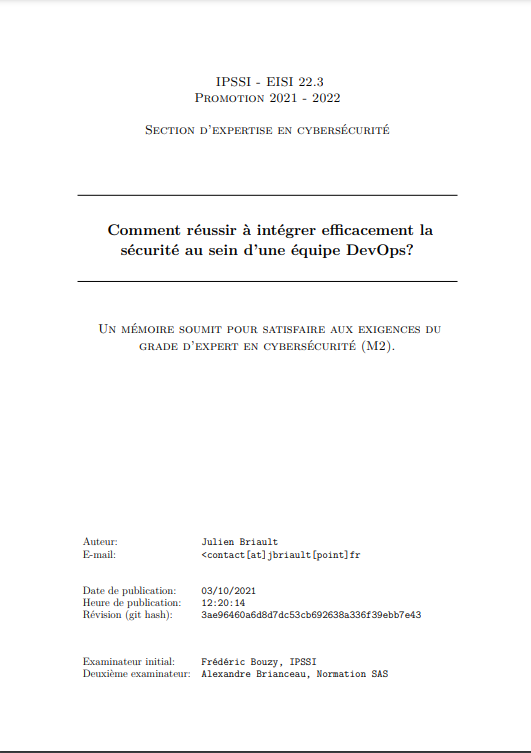
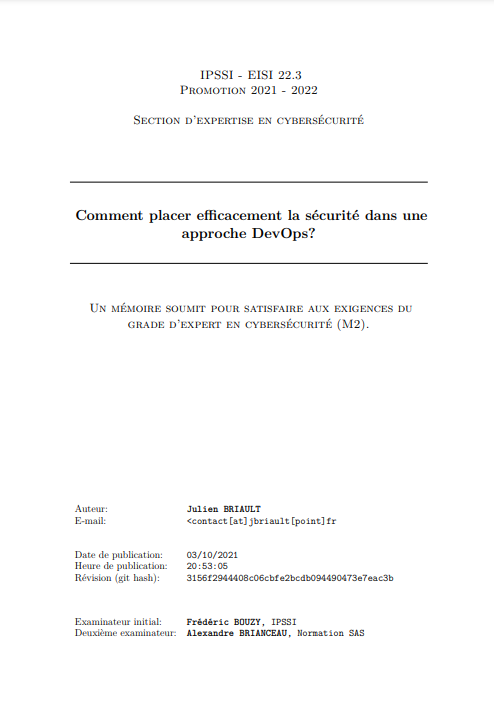
update mémoire

diff --git a/md/introduction.md b/md/introduction.md
@@ -1,4 +1,5 @@
 # Introduction
+
 Lorsque **Patrick Debois**[^1] créé le terme DevOps en 2009, 
 il est très certainement loin de se douter qu'il est l'un des pionnier d'un mouvement 
 dont l'influence ne cessera de s'accroître dans le monde du numérique.
@@ -11,12 +12,13 @@ Dans cette introduction, vous trouverez ansi des détails précis sur ce qu'est 
 techniques qui en découlent.
 
 
-## Qu'est-ce que le DevOps?
+##  D'où vient le DevOps?
+
 Il est intéressant de remonter dans le temps pour connaître et comprendre les origines du DevOps, comprendre d'où ça vient et qu'est-ce qui a donné naissance à ce mouvement.
 
 ### Un peu d'histoire
 
-### Tout démarre d'une problématique
+#### Tout démarre d'une problématique
 
 Cette histoire commence en 2007. **Patrick Debois**, homme connu pour être à l'origine du terme "DevOps", était à l'époque *administrateur système*[^2] en tant que consultant sur un projet
 de migration de données sensibles pour le gouvernement Belge.
@@ -25,27 +27,99 @@ Durant cette migration, il s'est retrouvé totalement impacté par le manque de 
 
 C'est de là où est parti le sujet de réflexion sur lequel il voulait trouver des solutions.
 
-### Création de l'Agile Systems Administration Group
+#### Création de l'Agile Systems Administration Group
 
-C'est en août 2008, il participe à une conférence agile[^3] de Toronto [@AgileRoots2009] où il va rencontrer le développeur **Andrew Shafer**[^4] qui voulait présenter un sujet qui l'inspirait: "Agile Instructure" [@AgileRoots2009].
+C'est en août 2008, il participe à une conférence agile[^3] de Toronto où il va rencontrer le développeur **Andrew Shafer**[^4] qui voulait présenter un sujet qui l'inspirait: "Agile Instructure" [@AgileRoots2009].
+
+Dans cette conférence qu'il donnera un an plus tard [@AgileRoots2009] qu'il définit le "Wall of confusion", traduit par le fameux "mur de confusion", qui détermine jusque là, la coupure entre les développeurs d'un côté et les opérationnels de l'autre. Cette coupure est d'ailleurs aussi valable avec la sécurité mais j'y reviendrais un peu plus tard au fil de ce mémoire.
+
 Malheureusement, Andrew Shafer n'a pas pu déroulé son sujet car seul Patrick Debois était présent dans cette salle.
 
 Cela leur a permis de discuter ensemble autour de cette problématique qui rongait Patrick Debois depuis quelques temps.
 C'est suite à cette discussion qu'ils crééent l'**Agile Systems Administration Group**.
 
-## Qu'est-ce que l'approche GitOps?
-...
+#### De frustré à leader d'un mouvement
 
-## Qu'est-ce que l'approche CI/CD?
-...
+En juin 2009, Patrick Debois était dans l'incapacité de participer à une conférence qui l'intéressait: 
+"*10+ Deploys Per Day: Dev and Ops Cooperation at Flickr*" [@Velocity2009] de **John Allspaw**[^5] et **Paul Hammond**[^6] au *velocity O’Reilly*[^7].
 
-### Qu'apporte-t-il?
-...
+Le sujet était exactement le type de retour d’expériences qu’il cherchait personnellement.
 
-## Le réseau, souvent oublié
-...
+Il exprime sa frustration sur Twitter[^8] de ne pas avoir pu participer à cette conférence. 
+
+C'est à ce moment là qu'il reçoit un message de **Paul Nasrat**[^9] qui sera l'élément déclencheur de toute la suite.
+Ce message était: *"Why not organize your own Velocity event in Belgium?"* qui peut être traduit par ***"Pourquoi ne pas organiser votre propre événement Velocity en Belgique?"***.
+
+A partir de cela, tout va aller très vite, le **30 octobre 2009**, ils réalisent une conférence appelée **DevOpsDays** qui fait référence à
+"developpeurs" et "opérationnels" (administrateur système). 
+
+C'est à ce même moment que le *hashtag* **#DevOps** fait son apparition et qu'il devient rapidement viral.
+
+#### Evolution avec le temps
+
+En une dizaine d'année, nous avons pu rencontrer et visualiser les différentes choses qui ont pu découler de ce terme générique, qui est le "DevOps".
+Beaucoup de déclinaisons et de sous-mouvements se sont créés, je viendrais à en parler plus tard dans ce mémoire.
+
+#### Rapport avec la sécurité
+
+Comme vous l'avez compris, à l'origine de cette mouvance, il n'a pas été question d'y intégrer la sécurité d'un point de vue stricte du terme.
+
+Justement, l'intérêt que je vois dans ce mémoire est d'expliquer comment le faire, quels outils utilisés, quelle méthodologie, etc.
+
+## Que permet de le DevOps?
+
+Ajourd'hui, les applications doivent être produites et déployées en continu. A l'ère du *cloud computing*[^10], les soltions logicielles doivent être évolutives, disponibles,
+hyperperformantes avec une latence de plus en plus faible et, bien entendu, à moindre coût.
+
+Ainsi le DevOps permet aux différentes équipes de développement et d'infrastructure, de s'unir et d'être plus reactives face à ces nouvelles exigences.
+De par son *design* le DevOps répond à des exigences de sécurité qui ne sont des moindres.
+
+En effet si l'on reprend le principe même de la sécurité et surtout du **DICT** (pour *Disponibilité*, *Intégrité*, *Confidentialité* et *Traçabilité*), le DevOps répond naturellement au premier point de cet acronyme, la **disponibilité**.
+
+Effectivement, l'un des gros intérêt du DevOps est de pouvoir garantir efficacement la disponibilité des applications et ainsi de garantir une partie de sa sécurité.
+Malheureusement, ça ne fait pas tout, il faut bien d'autres éléments pour que l'on puisse réellement parler de sécurité au sein du DevOps.
+
+Le DevOps est LE moyen de réussir l'évolution citée ci-dessus, avec comme philosophie, l'idée d'un monde dans lequel chaque composante de l'organisation d'une entreprise
+collaborerait efficacement pour l'atteinte de mêmes objectifs.
+
+## Rappel des origines pour mieux comprendre
+
+### Lean Startup : aux origines du DevOps
+
+Le **Lean Startup** est une des briques fondamentales d'une approche DevOps, en effet, cette brique repose sur un point essentiel pour comprendre le DevOps.
+
+La **Learning Loop** ou **boucle d'apprentissage**. Cette boucle est constituée de 3 étapes, sous forme d'un processus itératif.
+
+![Le triptyque fondamental du Lean Startup, autrement appelé "Learning Loop"](img/LEAN-STARTUP.png){width=50%}
+
+#### Etape 1 : construire
+
+A partir des idées de départ, l'étape 1 consiste à constuire une manière de tester auprès des clients.
+
+#### Etape 2 : mesurer
+
+La mesure permet d'apporter de manière importante de la méthode, reléguant l'intuition au second plan, et incitant les entreprises à prendre des décisions basées sur de la donnée.
+
+#### Etape 3 : apprendre
+
+Tester (construire) et mesurer est important, mais pour aller au bout de la démarche, il est très important de formaliser les apprentissages qui découlent de cette approche.
+Les anglo-saxons appelent ça "*test and learn*". Pour que ça puisse être possible, il faut savoir prendre du recul, analyser les actions et ce qui a été mesuré.
+Vous voyez où je veux en venir? En effet, je vais pouvoir me baser de ce même principe du Lean pour commencer l'ajout de la sécurité au sein d'une approche DevOps.
+
+### Kaizen : a la recherche de l'amélioration continue
+
+Je suis du texte...
+
+![Le Kaizen en caractères japonais](img/KAIZEN.png){width=30%}
+
 
 [^1]: **Patrick Debois** est un ingénieur et développeur, il est l'inventeur du mot [DevOps](http://www.jedi.be/blog/).
 [^2]: Un *administrateur système* est une profession, dans le domaine de l'informatique qui consiste à maintenir et déployer des systèmes informatisés.
 [^3]: L'**agilité**, dans un concept d'entreprise permet de s'adapter plus facilement aux changements, de mieux maîtriser le processus de bout en bout et ainsi d'augmenter la satifaction cliente.
 [^4]: **Andrew Shafer** est un développeur et co-fondateur du projet [Puppet](https://puppet.com/), outil de gestion de configuration.
+[^5]: **John Allspaw** est officiellement "Operations Engineering Manager" chez [Flickr](https://www.flickr.com/), un réseau social très populaire aux Etats-Unis d'Amérique. Il est également écrivain publié chez [O'Reilly](https://www.oreilly.com/).
+[^6]: **Paul Hammond** est ingénieur et collègue de John Allspaw [^5] chez [Flickr](https://www.flickr.com/).
+[^7]: **Velocity O’Reilly** est une conférence où des acteurs du numérique interviennent.
+[^8]: **Twitter** est un réseau social américain.
+[^9]: **Paul Nasrat** est "Lead Systems Integration" pour le journal américain [The Guardian](https://theguardian.com).
+[^10]: Le **cloud computing** est une infrastructure dans laquelle la puissance de calcul et le stockage sont gérés par des serveurs distants auxquels les usagers se connectent via une liaison internet sécurisée.

diff --git a/md/relatedwork.md b/md/relatedwork.md
@@ -1,3 +1,13 @@
 # Stand der Technik/Forschung, vergleichbare Arbeiten
 
-Lorem ipsum dolor sit amet, consectetur adipisici elit, sed eiusmod tempor incidunt ut labore et dolore magna aliqua. Ut enim ad minim veniam, quis nostrud exercitation ullamco laboris nisi ut aliquid ex ea commodi consequat. Quis aute iure reprehenderit in voluptate velit esse cillum dolore eu fugiat nulla pariatur. Excepteur sint obcaecat cupiditat non proident, sunt in culpa qui officia deserunt mollit anim id est laborum.
+## Qu'est-ce que l'approche GitOps?
+...
+
+## Qu'est-ce que l'approche CI/CD?
+...
+
+### Qu'apporte-t-il?
+...
+
+## Le réseau, souvent oublié
+...

diff --git a/md/annexes/memoire.md b/md/annexes/memoire.md
@@ -2,7 +2,12 @@
 La réalisation de ce mémoire résulte d'un travail de longue haleine.
 J'ai commencé par identifier les tâches qui pourrait me coûter du temps. Tout temps lors de l'écriture d'un mémoire est précieux.
 
+Pour être totalement dans le sujet, j'ai pris la décision de rédiger ce mémoire sous la forme de code.
+Inscrit ainsi dans une démarche DevOps et en y rajoutant l'aspect sécuritaire, je vais parler dans cette partie des annexes, comment 
+j'ai rédigé ce mémoire, avec quels outils, où ais-je intégré la sécurité, etc.
+
 ### Les tâches coûteuses en temps
+J'ai 
 
 ### La partie syntaxique
 ...

diff --git a/README.md b/README.md
@@ -2,7 +2,7 @@
 
 Ce dépôt contient le code tout comme le texte qui fait référence à mon mémoire de Mastère 2. Le sujet de ce mémoire est de répondre à la problématique suivante: 
 
-> *Comment réussir à intégrer efficacement la sécurité au sein d'une équipe DevOps?*
+> *Comment placer efficacement la sécurité dans une approche DevOps?*
 
 <center><img src="img/MEMOIRE.png" alt="Mémoire IPSSI"></center>
 
